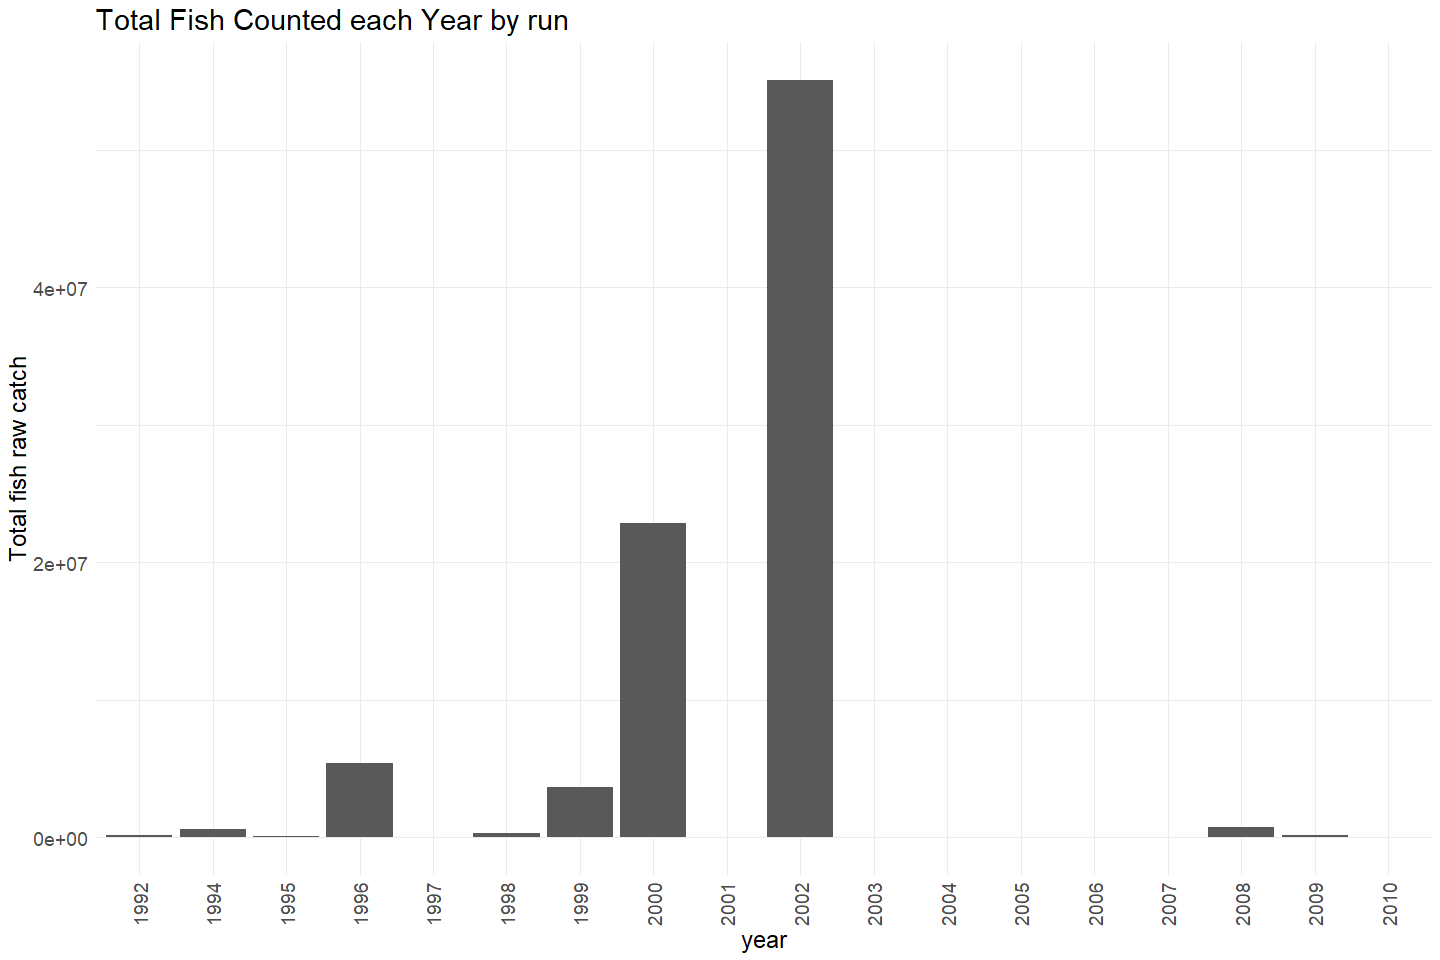
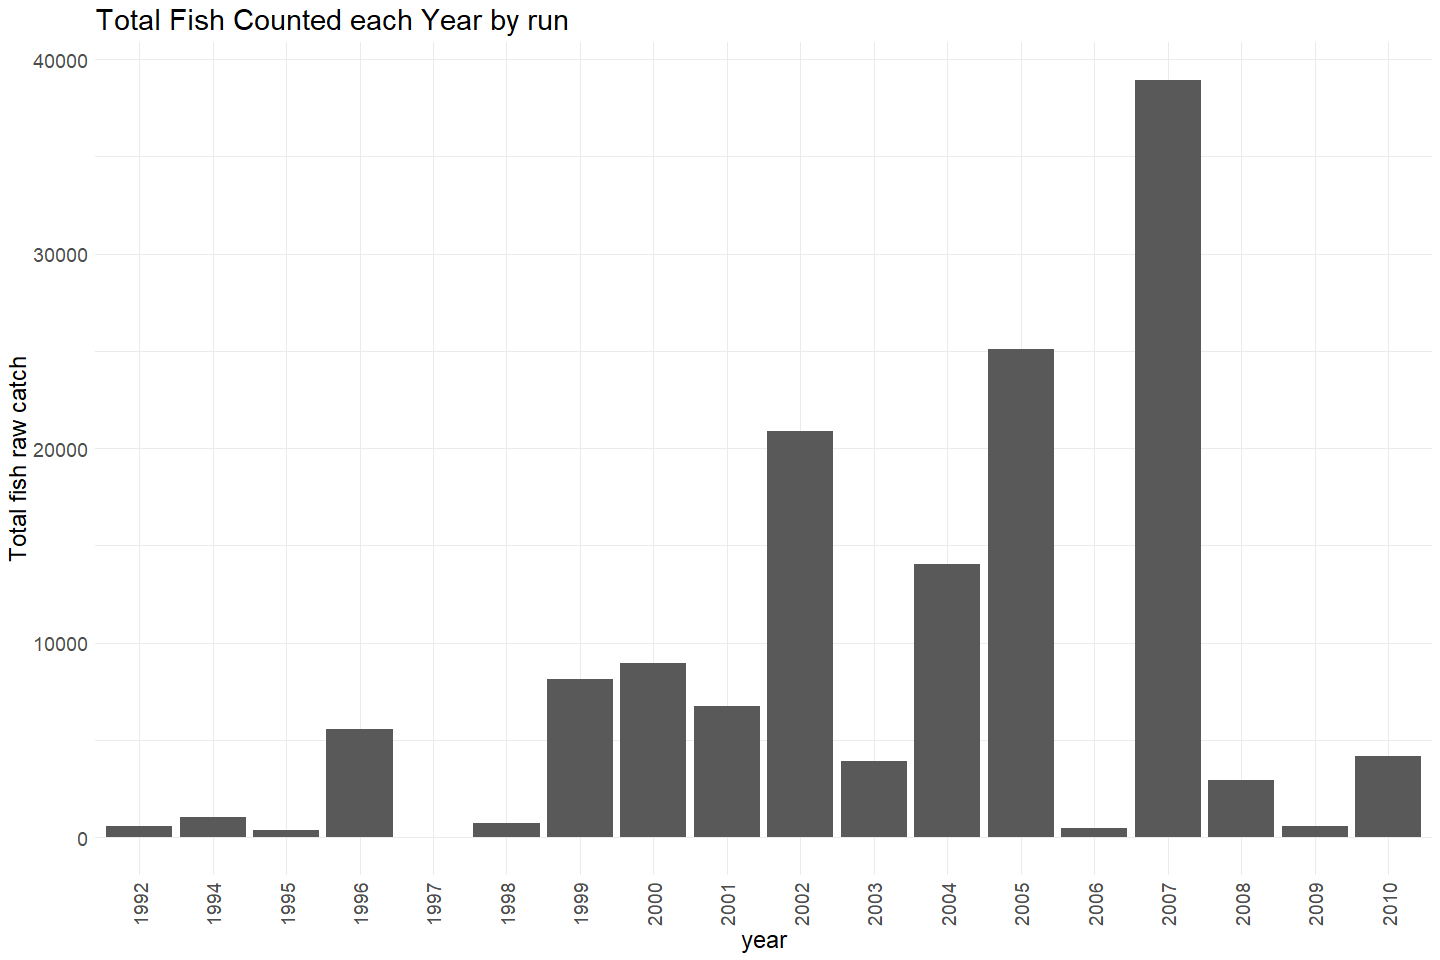
Adds additional description to deer creek rst data

diff --git a/scripts/rst/deer-creek/deer_creek_rst_data_qc.md b/scripts/rst/deer-creek/deer_creek_rst_data_qc.md
@@ -133,7 +133,7 @@ cleaner_rst_data %>% select_if(is.numeric) %>% colnames()
 ``` r
 cleaner_rst_data %>% 
   group_by(date) %>%
-  summarise(total_daily_catch = sum(count)) %>%
+  summarise(total_daily_catch = sum(count, na.rm = T)) %>%
   mutate(water_year = ifelse(month(date) %in% 10:12, year(date) + 1, year(date))) %>% 
   left_join(sac_indices) %>%
   mutate(year = as.factor(year(date)),
@@ -165,7 +165,7 @@ Early years looks like sampling happened infrequently.
 cleaner_rst_data  %>%
   mutate(year = as.factor(year(date))) %>%
   group_by(year) %>%
-  mutate(total_yearly_catch = sum(count)) %>%
+  summarise(total_yearly_catch = sum(count, na.rm = T)) %>%
   ggplot(aes(x = year, y = total_yearly_catch)) + 
   geom_col() + 
   theme_minimal() +
@@ -176,9 +176,6 @@ cleaner_rst_data  %>%
 ```
 
 ![](deer_creek_rst_data_qc_files/figure-gfm/unnamed-chunk-7-1.png)<!-- -->
-
-Huge amount of fish in 2002. Sampling occurred every year, just very
-small numbers in comparison to 2002 make bars look tiny
 
 **Numeric Summary of counts over Period of Record**
 
@@ -191,12 +188,12 @@ summary(cleaner_rst_data$count)
     ##    1.000    1.000    1.000    5.677    2.000 4057.000       39
 
 ``` r
-daily_count <- cleaner_rst_data %>% group_by(date) %>% summarise(daily_count = sum(count, na.rm = T)) %>% ggplot(aes(x = date, y = daily_count)) + geom_col()
+daily_count <- cleaner_rst_data %>% group_by(date) %>% summarise(daily_count = sum(count, na.rm = T))
 summary(daily_count$daily_count)
 ```
 
-    ## Length  Class   Mode 
-    ##      0   NULL   NULL
+    ##    Min. 1st Qu.  Median    Mean 3rd Qu.    Max. 
+    ##    0.00    5.00   20.00   93.11   77.00 4275.00
 
 **NA and Unknown Values**
 
@@ -204,7 +201,7 @@ summary(daily_count$daily_count)
 
 ### Variable: `length`
 
-Length of the fish captured
+Length of the fish captured. Units? (Waiting on response from Matt)
 
 **Plotting length**
 
@@ -237,7 +234,7 @@ summary(cleaner_rst_data$length)
 
 ### Variable: `weight`
 
-weight of the fish captured
+Weight of the fish captured. Units? Waiting on Matt.
 
 **Plotting weight**
 
@@ -271,7 +268,7 @@ summary(cleaner_rst_data$weight)
 
 ### Variable: `flow`
 
-Flow, units?
+Flow, units? (Waiting on reply from Matt)
 
 **Plotting flow over Period of Record**
 
@@ -334,9 +331,7 @@ summary(cleaner_rst_data$flow)
 
 ### Variable: `time_for_10_revolutions`
 
-Length of the fish captured
-
-**Plotting time\_for\_10\_revolutions**
+**Plotting time it takes RST to do 10 revolutions**
 
 ``` r
 cleaner_rst_data %>% 
@@ -370,8 +365,6 @@ summary(cleaner_rst_data$time_for_10_revolutions)
 -   27.2 % of values in the `time_for_10_revolutions` column are NA.
 
 ### Variable: `tubs_of_debris`
-
-tubs\_of\_debris of the fish captured
 
 **Plotting Debris**
 
@@ -447,10 +440,6 @@ cleaner_rst_data %>%
 ```
 
 ![](deer_creek_rst_data_qc_files/figure-gfm/unnamed-chunk-21-1.png)<!-- -->
-
-Notes:
-
--   No measures pre 1997
 
 **Numeric Summary of water\_temperature over Period of Record**
 
@@ -557,8 +546,8 @@ table(cleaner_rst_data$location)
 
 ### Variable: `trap_condition_code`
 
-Code describing trap condition. TODO figure out code definitions (Ask
-Matt)
+Code describing trap condition. TODO figure out code definitions
+(Waiting on reply from Matt)
 
 ``` r
 table(cleaner_rst_data$trap_condition_code) 
@@ -574,8 +563,8 @@ table(cleaner_rst_data$trap_condition_code)
 
 ### Variable: `weather`
 
-Code describing weather condition. TODO figure out code definitions (Ask
-Matt)
+Code describing weather condition. TODO figure out code definitions
+(Waiting on reply from Matt)
 
 ``` r
 table(cleaner_rst_data$weather) 
